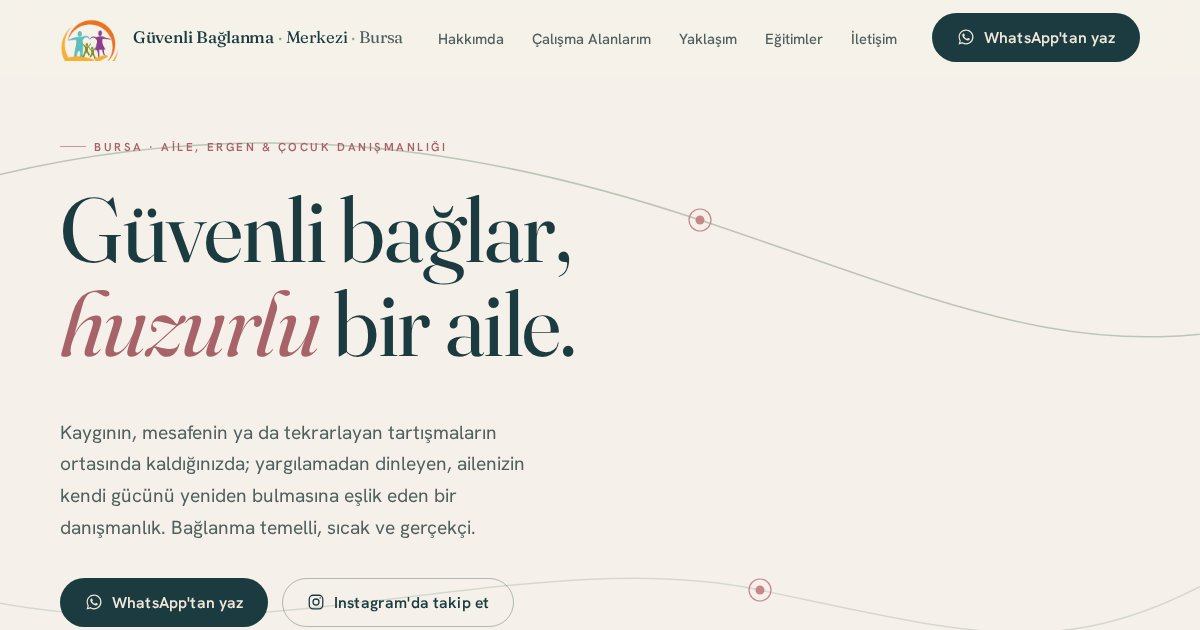
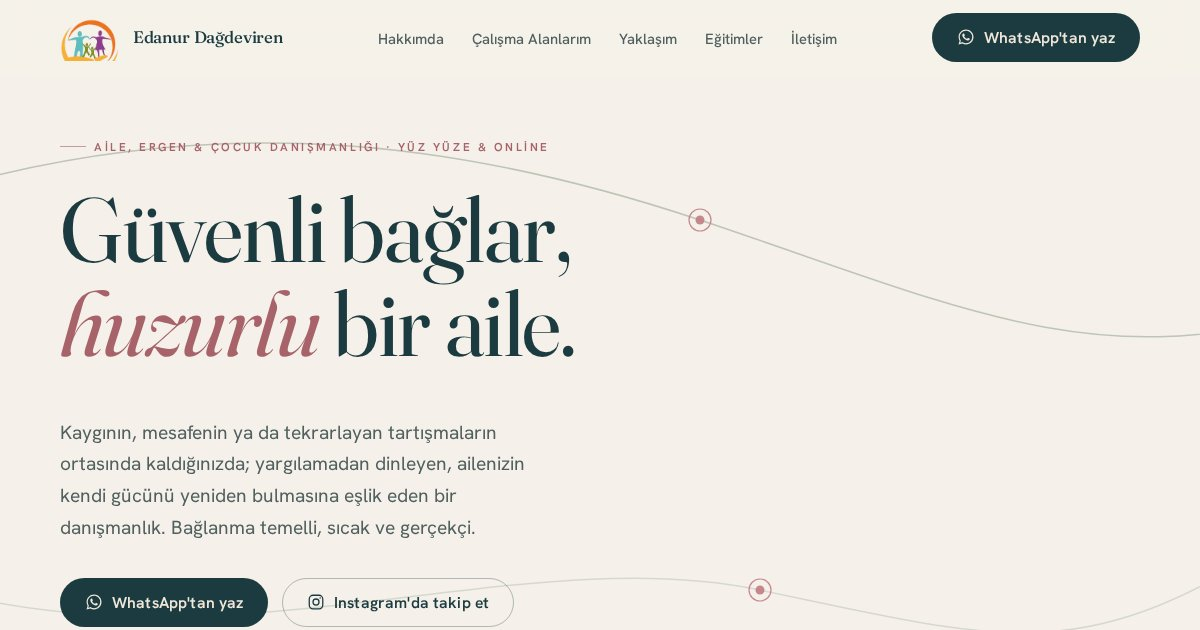
Rebrand site to 'Edanur Dağdeviren', drop center name and Bursa anchoring
- Nav wordmark, footer brand, titles, meta/OG, JSON-LD now use the
  personal brand; areaServed widened to TR
- Footer switches to text-free logo mark (full logo contained old
  brand text)
- Location kept only as service info: online nationwide, in-person
  in Bursa
- Tagline 'Güvenli bağlar, huzurlu bir aile.' retained as message
- og.jpg regenerated; dead wordmark CSS removed

https://claude.ai/code/session_018q6sdGL8snQFgBxY1TkZdK

Changed region(s): [[0.1233, 0.0302, 0.74, 0.0905], [0.0617, 0.2111, 0.4625, 0.2413]]

diff --git a/site/index.html b/site/index.html
@@ -4,8 +4,8 @@
 <meta charset="UTF-8" />
 <script>document.documentElement.classList.add("js");</script>
 <meta name="viewport" content="width=device-width, initial-scale=1.0" />
-<title>Güvenli Bağlanma Merkezi · Edanur Dağdeviren · Bursa</title>
-<meta name="description" content="Bursa Güvenli Bağlanma Merkezi — Aile, ergen ve çocuk danışmanlığı. Edanur Dağdeviren ile güvenli bağlar, huzurlu bir aile. Yüz yüze ve online görüşme." />
+<title>Edanur Dağdeviren · Aile, Ergen ve Çocuk Danışmanı</title>
+<meta name="description" content="Edanur Dağdeviren — Aile, ergen ve çocuk danışmanlığı. Bağlanma temelli, yüz yüze ve online görüşme. Güvenli bağlar, huzurlu bir aile." />
 <link rel="canonical" href="https://edanurdagdeviren.com/" />
 <meta name="theme-color" content="#F5F1EA" />
 <link rel="icon" type="image/png" href="assets/logo-mark.png" />
@@ -14,9 +14,9 @@
 <!-- Open Graph / paylaşım kartı -->
 <meta property="og:type" content="website" />
 <meta property="og:locale" content="tr_TR" />
-<meta property="og:site_name" content="Güvenli Bağlanma Merkezi" />
-<meta property="og:title" content="Güvenli Bağlanma Merkezi · Edanur Dağdeviren · Bursa" />
-<meta property="og:description" content="Aile, ergen ve çocuk danışmanlığı. Güvenli bağlar, huzurlu bir aile. Bursa'da yüz yüze veya online." />
+<meta property="og:site_name" content="Edanur Dağdeviren" />
+<meta property="og:title" content="Edanur Dağdeviren · Aile, Ergen ve Çocuk Danışmanı" />
+<meta property="og:description" content="Aile, ergen ve çocuk danışmanlığı. Güvenli bağlar, huzurlu bir aile. Yüz yüze ve online görüşme." />
 <meta property="og:url" content="https://edanurdagdeviren.com/" />
 <meta property="og:image" content="https://edanurdagdeviren.com/assets/og.jpg" />
 <meta name="twitter:card" content="summary_large_image" />
@@ -30,14 +30,13 @@
 {
   "@context": "https://schema.org",
   "@type": "ProfessionalService",
-  "name": "Güvenli Bağlanma Merkezi",
-  "description": "Bursa'da aile, ergen ve çocuk danışmanlığı. Bağlanma temelli, yüz yüze ve online görüşme.",
+  "name": "Edanur Dağdeviren — Aile, Ergen ve Çocuk Danışmanlığı",
+  "description": "Aile, ergen ve çocuk danışmanlığı. Bağlanma temelli, yüz yüze ve online görüşme.",
   "url": "https://edanurdagdeviren.com/",
   "telephone": "+905545340114",
   "image": "https://edanurdagdeviren.com/assets/og.jpg",
-  "logo": "https://edanurdagdeviren.com/assets/logo.png",
-  "address": { "@type": "PostalAddress", "addressLocality": "Bursa", "addressCountry": "TR" },
-  "areaServed": "Bursa",
+  "logo": "https://edanurdagdeviren.com/assets/logo-mark.png",
+  "areaServed": "TR",
   "founder": { "@type": "Person", "name": "Edanur Dağdeviren", "jobTitle": "Aile, Ergen ve Çocuk Danışmanı" },
   "sameAs": ["https://www.instagram.com/aile.danismani.16/"]
 }
@@ -48,9 +47,9 @@
 <!-- ============================================================ NAV -->
 <header class="nav">
   <div class="wrap">
-    <a class="wordmark" href="#top" aria-label="Güvenli Bağlanma Merkezi ana sayfa">
+    <a class="wordmark" href="#top" aria-label="Edanur Dağdeviren ana sayfa">
       <img class="logo-mark" src="assets/logo-mark.png" alt="" width="163" height="120" />
-      <span><b>Güvenli Bağlanma</b><span class="rest"> <span class="sep">·</span> Merkezi <span class="sep">·</span> <span class="city">Bursa</span></span></span>
+      <span><b>Edanur Dağdeviren</b></span>
     </a>
 
     <nav aria-label="Birincil">
@@ -103,7 +102,7 @@
   <div class="wrap">
     <div class="hero-grid">
       <div>
-        <p class="eyebrow reveal">Bursa · Aile, Ergen &amp; Çocuk Danışmanlığı</p>
+        <p class="eyebrow reveal">Aile, Ergen &amp; Çocuk Danışmanlığı · Yüz Yüze &amp; Online</p>
         <h1 class="display reveal d1">Güvenli bağlar,<br /><span class="accent">huzurlu</span> bir aile.</h1>
         <p class="lead reveal d2">Kaygının, mesafenin ya da tekrarlayan tartışmaların ortasında kaldığınızda; yargılamadan dinleyen, ailenizin kendi gücünü yeniden bulmasına eşlik eden bir danışmanlık. Bağlanma temelli, sıcak ve gerçekçi.</p>
         <div class="hero-ctas reveal d3">
@@ -170,7 +169,7 @@
       <div>
         <p class="eyebrow reveal">Hakkımda</p>
         <h2 class="about-name reveal d1">Edanur Dağdeviren</h2>
-        <p class="about-role reveal d1">Kurucu · Aile, Ergen ve Çocuk Danışmanı</p>
+        <p class="about-role reveal d1">Aile, Ergen ve Çocuk Danışmanı</p>
         <div class="about-body">
           <p class="reveal d2">Okul öncesi öğretmenliği ve on beş yıllık eğitimcilik geçmişimin ardından, son beş yıldır tüm zamanımı ailelere ayırıyorum. Psikoloji yüksek lisansımı masal terapisinin akışta kalmaya katkısı üzerine tamamladım; üç erkek çocuğun annesi olarak, bir ailenin içindeki yorgunluğu da, umudu da yakından tanıyorum.</p>
           <p class="reveal d2">Çalışmamın merkezinde bağlanma var: çocukların, eşlerin ve ebeveynlerin birbirine güvenle tutunabildiği o ince bağı onarmak. Hızlı reçeteler yerine, her aileye özel, sabırlı ve yargısız bir süreç kuruyorum — değişimin kalıcı olması için.</p>
@@ -361,7 +360,7 @@
       </div>
       <p class="where">
         <svg width="16" height="16" viewBox="0 0 24 24" fill="none" stroke="currentColor" stroke-width="1.6" aria-hidden="true"><path d="M12 21s7-5.5 7-11a7 7 0 1 0-14 0c0 5.5 7 11 7 11Z"/><circle cx="12" cy="10" r="2.5"/></svg>
-        Bursa'da yüz yüze veya online görüşme
+        Online — Türkiye'nin her yerinden · Yüz yüze görüşmeler Bursa'da
       </p>
     </div>
   </div>
@@ -373,10 +372,10 @@
 <footer class="footer">
   <div class="wrap">
     <div class="footer-brand">
-      <img class="footer-mark" src="assets/logo.png" alt="Bursa Güvenli Bağlanma · Aile-Çocuk Danışmanlığı · Edanur Dağdeviren" width="163" height="214" />
+      <img class="footer-mark" src="assets/logo-mark.png" alt="Edanur Dağdeviren logosu" width="163" height="120" />
       <div>
-        <p class="brand">Güvenli Bağlanma Merkezi</p>
-        <p>Aile, ergen ve çocuk danışmanlığı.<br />Edanur Dağdeviren · Bursa.<br />Güvenli bağlar, huzurlu bir aile.</p>
+        <p class="brand">Edanur Dağdeviren</p>
+        <p>Aile, ergen ve çocuk danışmanlığı.<br />Yüz yüze &amp; online görüşme.<br />Güvenli bağlar, huzurlu bir aile.</p>
       </div>
     </div>
     <div>
@@ -394,10 +393,10 @@
       <ul>
         <li><a data-wa href="#">WhatsApp'tan yaz</a></li>
         <li><a data-ig href="#">Instagram · @aile.danismani.16</a></li>
-        <li><span>Bursa · Yüz yüze &amp; online</span></li>
+        <li><span>Online · Türkiye geneli — yüz yüze Bursa'da</span></li>
       </ul>
     </div>
-    <p class="legal">© <span id="yr"></span> Güvenli Bağlanma Merkezi · Edanur Dağdeviren. Tüm hakları saklıdır.</p>
+    <p class="legal">© <span id="yr"></span> Edanur Dağdeviren. Tüm hakları saklıdır.</p>
   </div>
 </footer>
 

diff --git a/site/sertifikalar.html b/site/sertifikalar.html
@@ -4,7 +4,7 @@
 <meta charset="UTF-8" />
 <script>document.documentElement.classList.add("js");</script>
 <meta name="viewport" content="width=device-width, initial-scale=1.0" />
-<title>Sertifikalar &amp; Diplomalar · Güvenli Bağlanma Merkezi · Edanur Dağdeviren</title>
+<title>Sertifikalar &amp; Diplomalar · Edanur Dağdeviren</title>
 <meta name="description" content="Edanur Dağdeviren'in diploması, sertifikaları ve uygulayıcı belgeleri: Psikoloji yüksek lisansı, güvenli bağlanma eğitimleri, MOXO dikkat testi, HYT ve daha fazlası." />
 <link rel="canonical" href="https://edanurdagdeviren.com/sertifikalar.html" />
 <meta name="theme-color" content="#F5F1EA" />
@@ -13,8 +13,8 @@
 
 <meta property="og:type" content="website" />
 <meta property="og:locale" content="tr_TR" />
-<meta property="og:site_name" content="Güvenli Bağlanma Merkezi" />
-<meta property="og:title" content="Sertifikalar &amp; Diplomalar · Güvenli Bağlanma Merkezi" />
+<meta property="og:site_name" content="Edanur Dağdeviren" />
+<meta property="og:title" content="Sertifikalar &amp; Diplomalar · Edanur Dağdeviren" />
 <meta property="og:description" content="Diploma, sertifika ve uygulayıcı belgeleri — sürekli öğrenen bir danışmanlık." />
 <meta property="og:url" content="https://edanurdagdeviren.com/sertifikalar.html" />
 <meta property="og:image" content="https://edanurdagdeviren.com/assets/og.jpg" />
@@ -30,9 +30,9 @@
 <!-- ============================================================ NAV -->
 <header class="nav">
   <div class="wrap">
-    <a class="wordmark" href="index.html" aria-label="Güvenli Bağlanma Merkezi ana sayfa">
+    <a class="wordmark" href="index.html" aria-label="Edanur Dağdeviren ana sayfa">
       <img class="logo-mark" src="assets/logo-mark.png" alt="" width="163" height="120" />
-      <span><b>Güvenli Bağlanma</b><span class="rest"> <span class="sep">·</span> Merkezi <span class="sep">·</span> <span class="city">Bursa</span></span></span>
+      <span><b>Edanur Dağdeviren</b></span>
     </a>
 
     <nav aria-label="Birincil">
@@ -239,7 +239,7 @@
   <div class="wrap">
     <p class="eyebrow reveal">Yöntemler</p>
     <h2 class="section-title reveal d1" style="max-width: 20ch;">MOXO ve HYT nedir?</h2>
-    <p class="lead reveal d2" style="max-width: 54ch;">Merkezde uyguladığım iki belgeli yöntemi, merak edenler için kısaca anlatmak istedim.</p>
+    <p class="lead reveal d2" style="max-width: 54ch;">Uyguladığım iki belgeli yöntemi, merak edenler için kısaca anlatmak istedim.</p>
 
     <div class="method-grid">
       <article class="method reveal">
@@ -247,7 +247,7 @@
         <span class="sub">Dikkat Ölçümü</span>
         <h3>MOXO d-CPT Dikkat Testi</h3>
         <p>MOXO; dikkat, zamanlama, dürtüsellik ve hiperaktivite olmak üzere dört temel alanı ölçen, bilgisayar temelli bir dikkat performans testidir. Ayırt edici özelliği, günlük hayatı taklit eden görsel ve işitsel çeldiriciler kullanmasıdır — böylece çocuğun dikkatini gerçek yaşam koşullarına yakın bir ortamda değerlendirir.</p>
-        <p>Çocuk ve yetişkin formları bulunan test, dikkat eksikliği ve hiperaktivite (DEHB) değerlendirme sürecine nesnel bir ölçüm katar. Tek başına tanı aracı değildir; uzman değerlendirmesiyle birlikte anlam kazanır. Merkezde sertifikalı uygulayıcı olarak uyguluyor ve raporluyorum.</p>
+        <p>Çocuk ve yetişkin formları bulunan test, dikkat eksikliği ve hiperaktivite (DEHB) değerlendirme sürecine nesnel bir ölçüm katar. Tek başına tanı aracı değildir; uzman değerlendirmesiyle birlikte anlam kazanır. Sertifikalı uygulayıcı olarak uyguluyor ve raporluyorum.</p>
       </article>
       <article class="method reveal d1">
         <div class="ic"><svg viewBox="0 0 24 24" fill="none" stroke="currentColor" stroke-width="1.5"><path d="M4 12c2.5-4 5.5-4 8 0s5.5 4 8 0" stroke-linecap="round"/><circle cx="12" cy="12" r="9"/></svg></div>
@@ -284,10 +284,10 @@
 <footer class="footer">
   <div class="wrap">
     <div class="footer-brand">
-      <img class="footer-mark" src="assets/logo.png" alt="Bursa Güvenli Bağlanma · Aile-Çocuk Danışmanlığı · Edanur Dağdeviren" width="163" height="214" />
+      <img class="footer-mark" src="assets/logo-mark.png" alt="Edanur Dağdeviren logosu" width="163" height="120" />
       <div>
-        <p class="brand">Güvenli Bağlanma Merkezi</p>
-        <p>Aile, ergen ve çocuk danışmanlığı.<br />Edanur Dağdeviren · Bursa.<br />Güvenli bağlar, huzurlu bir aile.</p>
+        <p class="brand">Edanur Dağdeviren</p>
+        <p>Aile, ergen ve çocuk danışmanlığı.<br />Yüz yüze &amp; online görüşme.<br />Güvenli bağlar, huzurlu bir aile.</p>
       </div>
     </div>
     <div>
@@ -305,10 +305,10 @@
       <ul>
         <li><a data-wa href="#">WhatsApp'tan yaz</a></li>
         <li><a data-ig href="#">Instagram · @aile.danismani.16</a></li>
-        <li><span>Bursa · Yüz yüze &amp; online</span></li>
+        <li><span>Online · Türkiye geneli — yüz yüze Bursa'da</span></li>
       </ul>
     </div>
-    <p class="legal">© <span id="yr"></span> Güvenli Bağlanma Merkezi · Edanur Dağdeviren. Tüm hakları saklıdır.</p>
+    <p class="legal">© <span id="yr"></span> Edanur Dağdeviren. Tüm hakları saklıdır.</p>
   </div>
 </footer>
 

diff --git a/site/assets/site.css b/site/assets/site.css
@@ -1,5 +1,5 @@
 /* ============================================================
-   Güvenli Bağlanma Merkezi — Edanur Dağdeviren
+   Edanur Dağdeviren — Aile, Ergen & Çocuk Danışmanlığı
    Palette, type, and the "bağ ipliği" (bond-thread) system
    ============================================================ */
 
@@ -174,13 +174,10 @@ section { position: relative; }
 .wordmark .logo-mark { height: 46px; width: auto; flex: none; }
 @media (max-width: 600px) {
   .wordmark .logo-mark { height: 40px; }
-  .wordmark .rest { display: none; } /* dar ekranda yalnızca "Güvenli Bağlanma" */
   .nav .wrap { gap: 10px; }
   .nav-cta { gap: 8px; }
 }
 .wordmark b { font-weight: 500; }
-.wordmark .sep { color: var(--sage); font-weight: 400; }
-.wordmark .city { color: var(--ink-soft); font-weight: 400; }
 
 .nav-links { display: flex; align-items: center; gap: clamp(14px, 2vw, 30px); list-style: none; margin: 0; padding: 0; }
 .nav-links a {

diff --git a/site/404.html b/site/404.html
@@ -3,7 +3,7 @@
 <head>
 <meta charset="UTF-8" />
 <meta name="viewport" content="width=device-width, initial-scale=1.0" />
-<title>Sayfa bulunamadı · Güvenli Bağlanma Merkezi</title>
+<title>Sayfa bulunamadı · Edanur Dağdeviren</title>
 <meta name="robots" content="noindex" />
 <link rel="icon" type="image/png" href="/assets/logo-mark.png" />
 <link rel="preconnect" href="https://fonts.googleapis.com" />

diff --git a/site/assets/site.js b/site/assets/site.js
@@ -1,5 +1,5 @@
 /* ============================================================
-   Güvenli Bağlanma Merkezi — interactions
+   Edanur Dağdeviren — site interactions
    ============================================================ */
 
 /* ---- 1. CONFIGURE CONTACT HERE -------------------------------

diff --git a/site/DEPLOY.md b/site/DEPLOY.md
@@ -1,4 +1,4 @@
-# Güvenli Bağlanma Merkezi — Yayına Alma (Cloudflare Pages)
+# Edanur Dağdeviren sitesi — Yayına Alma (Cloudflare Pages)
 
 Bu klasör (`site/`) tamamen statik bir sitedir: build adımı yoktur, olduğu gibi
 yayınlanır. `edanurdagdeviren.com` domain'i Cloudflare'de olduğu için en kolay
